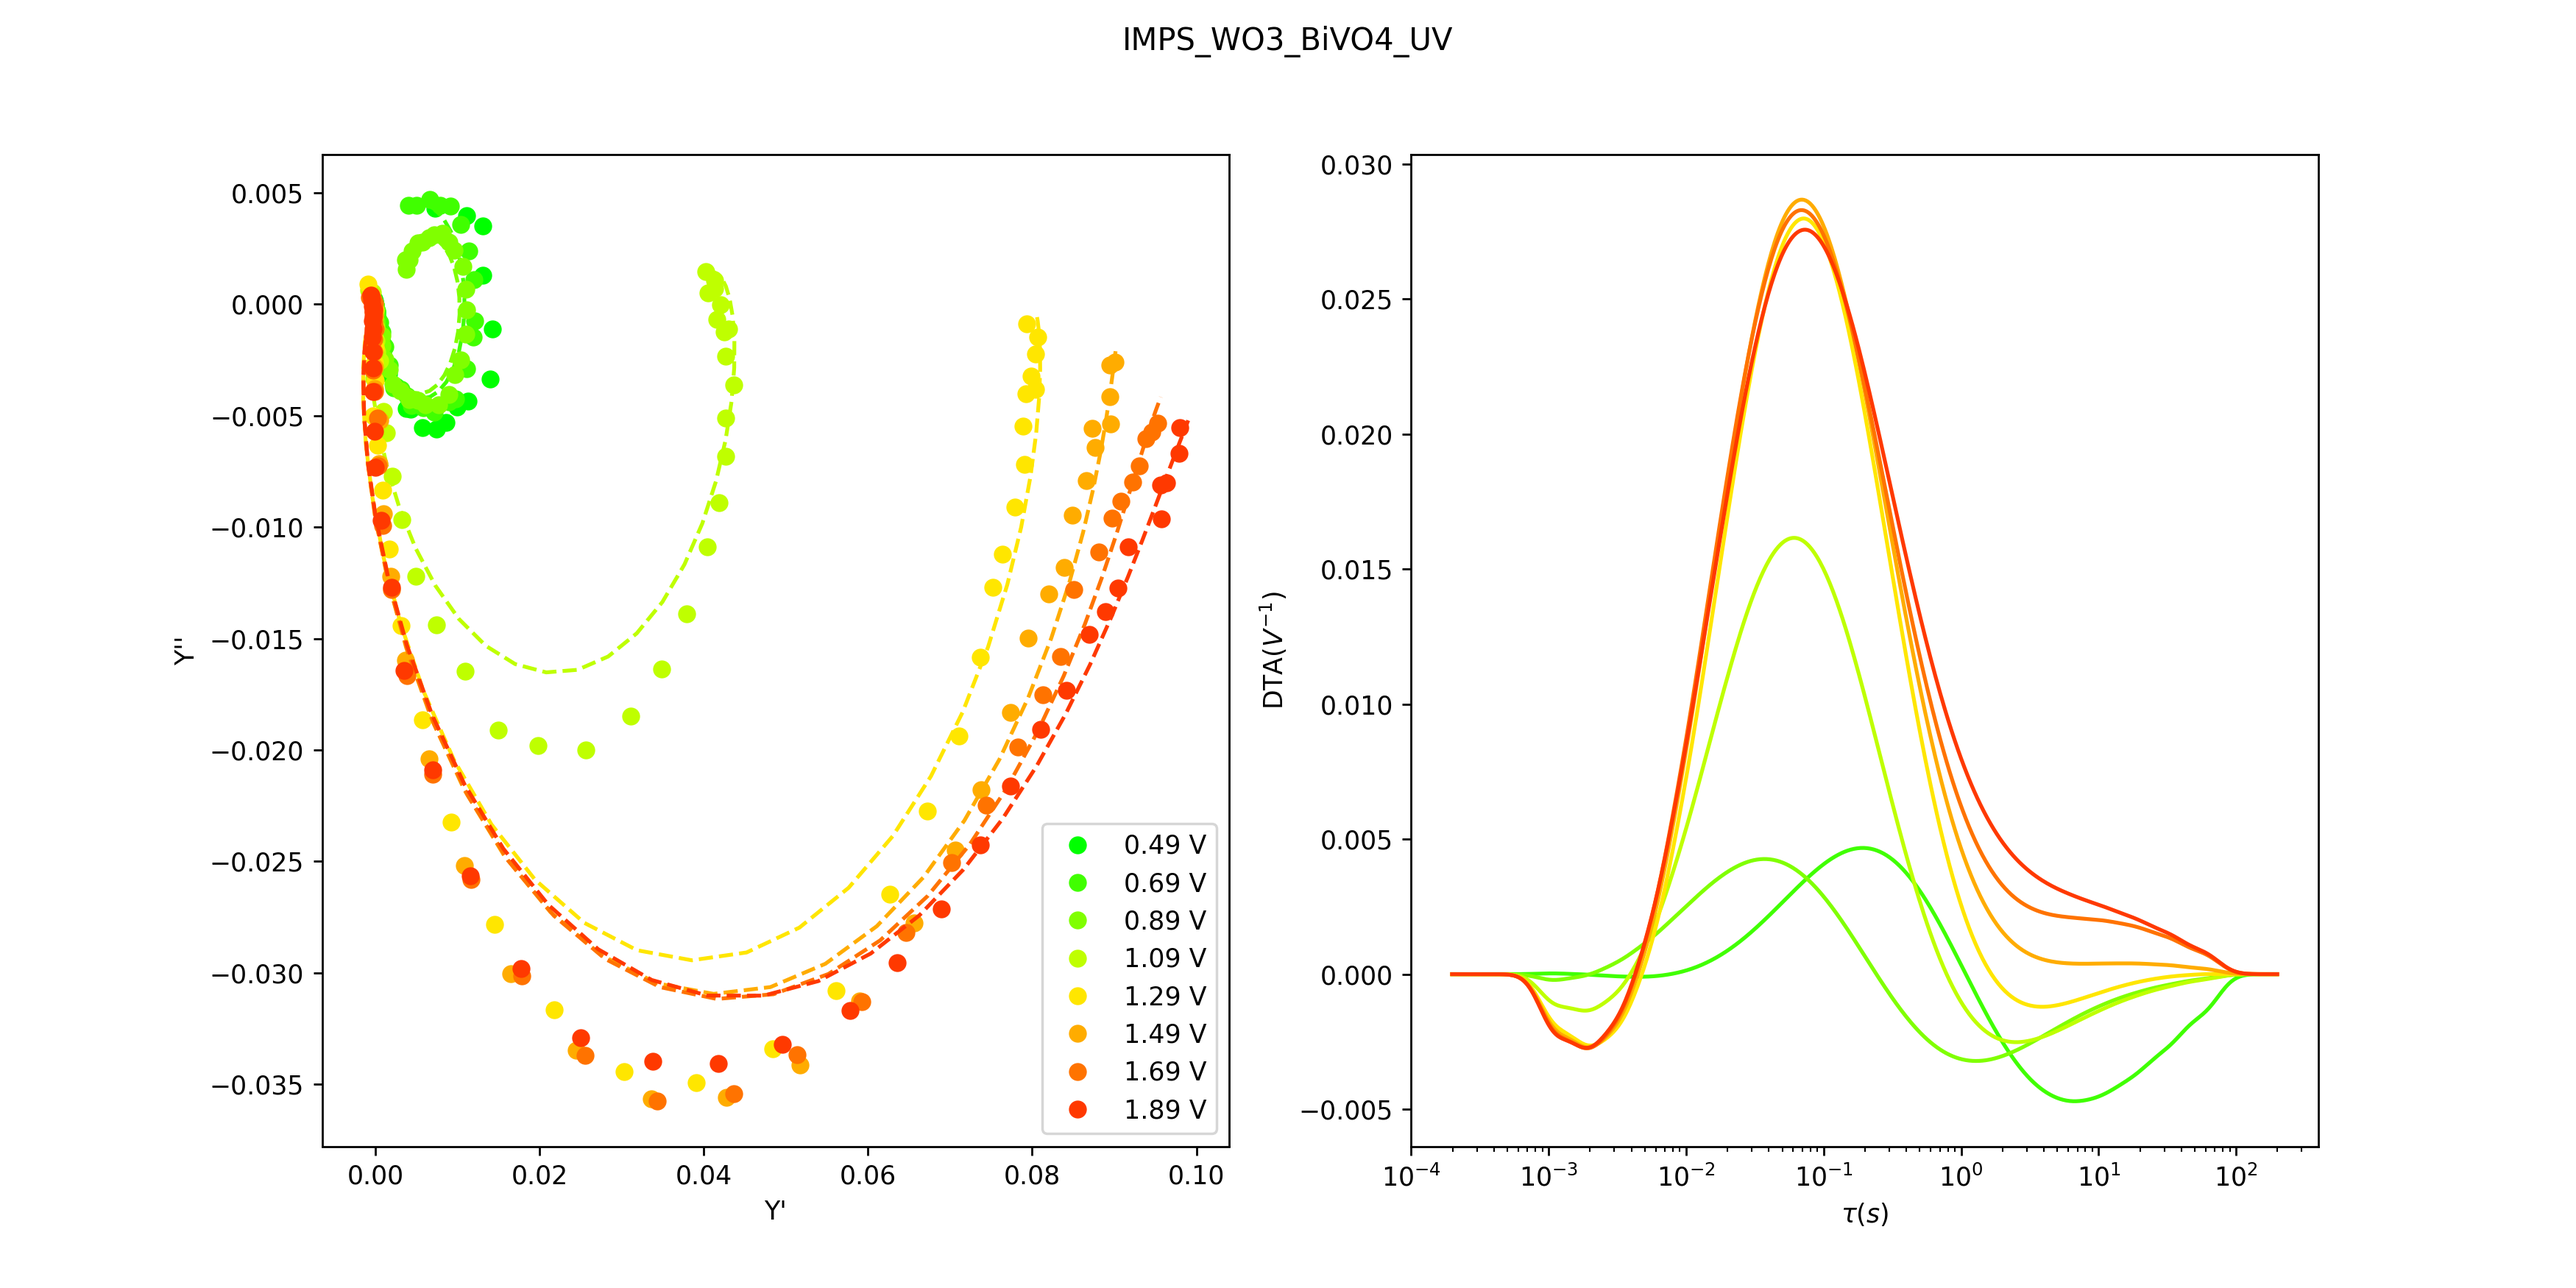
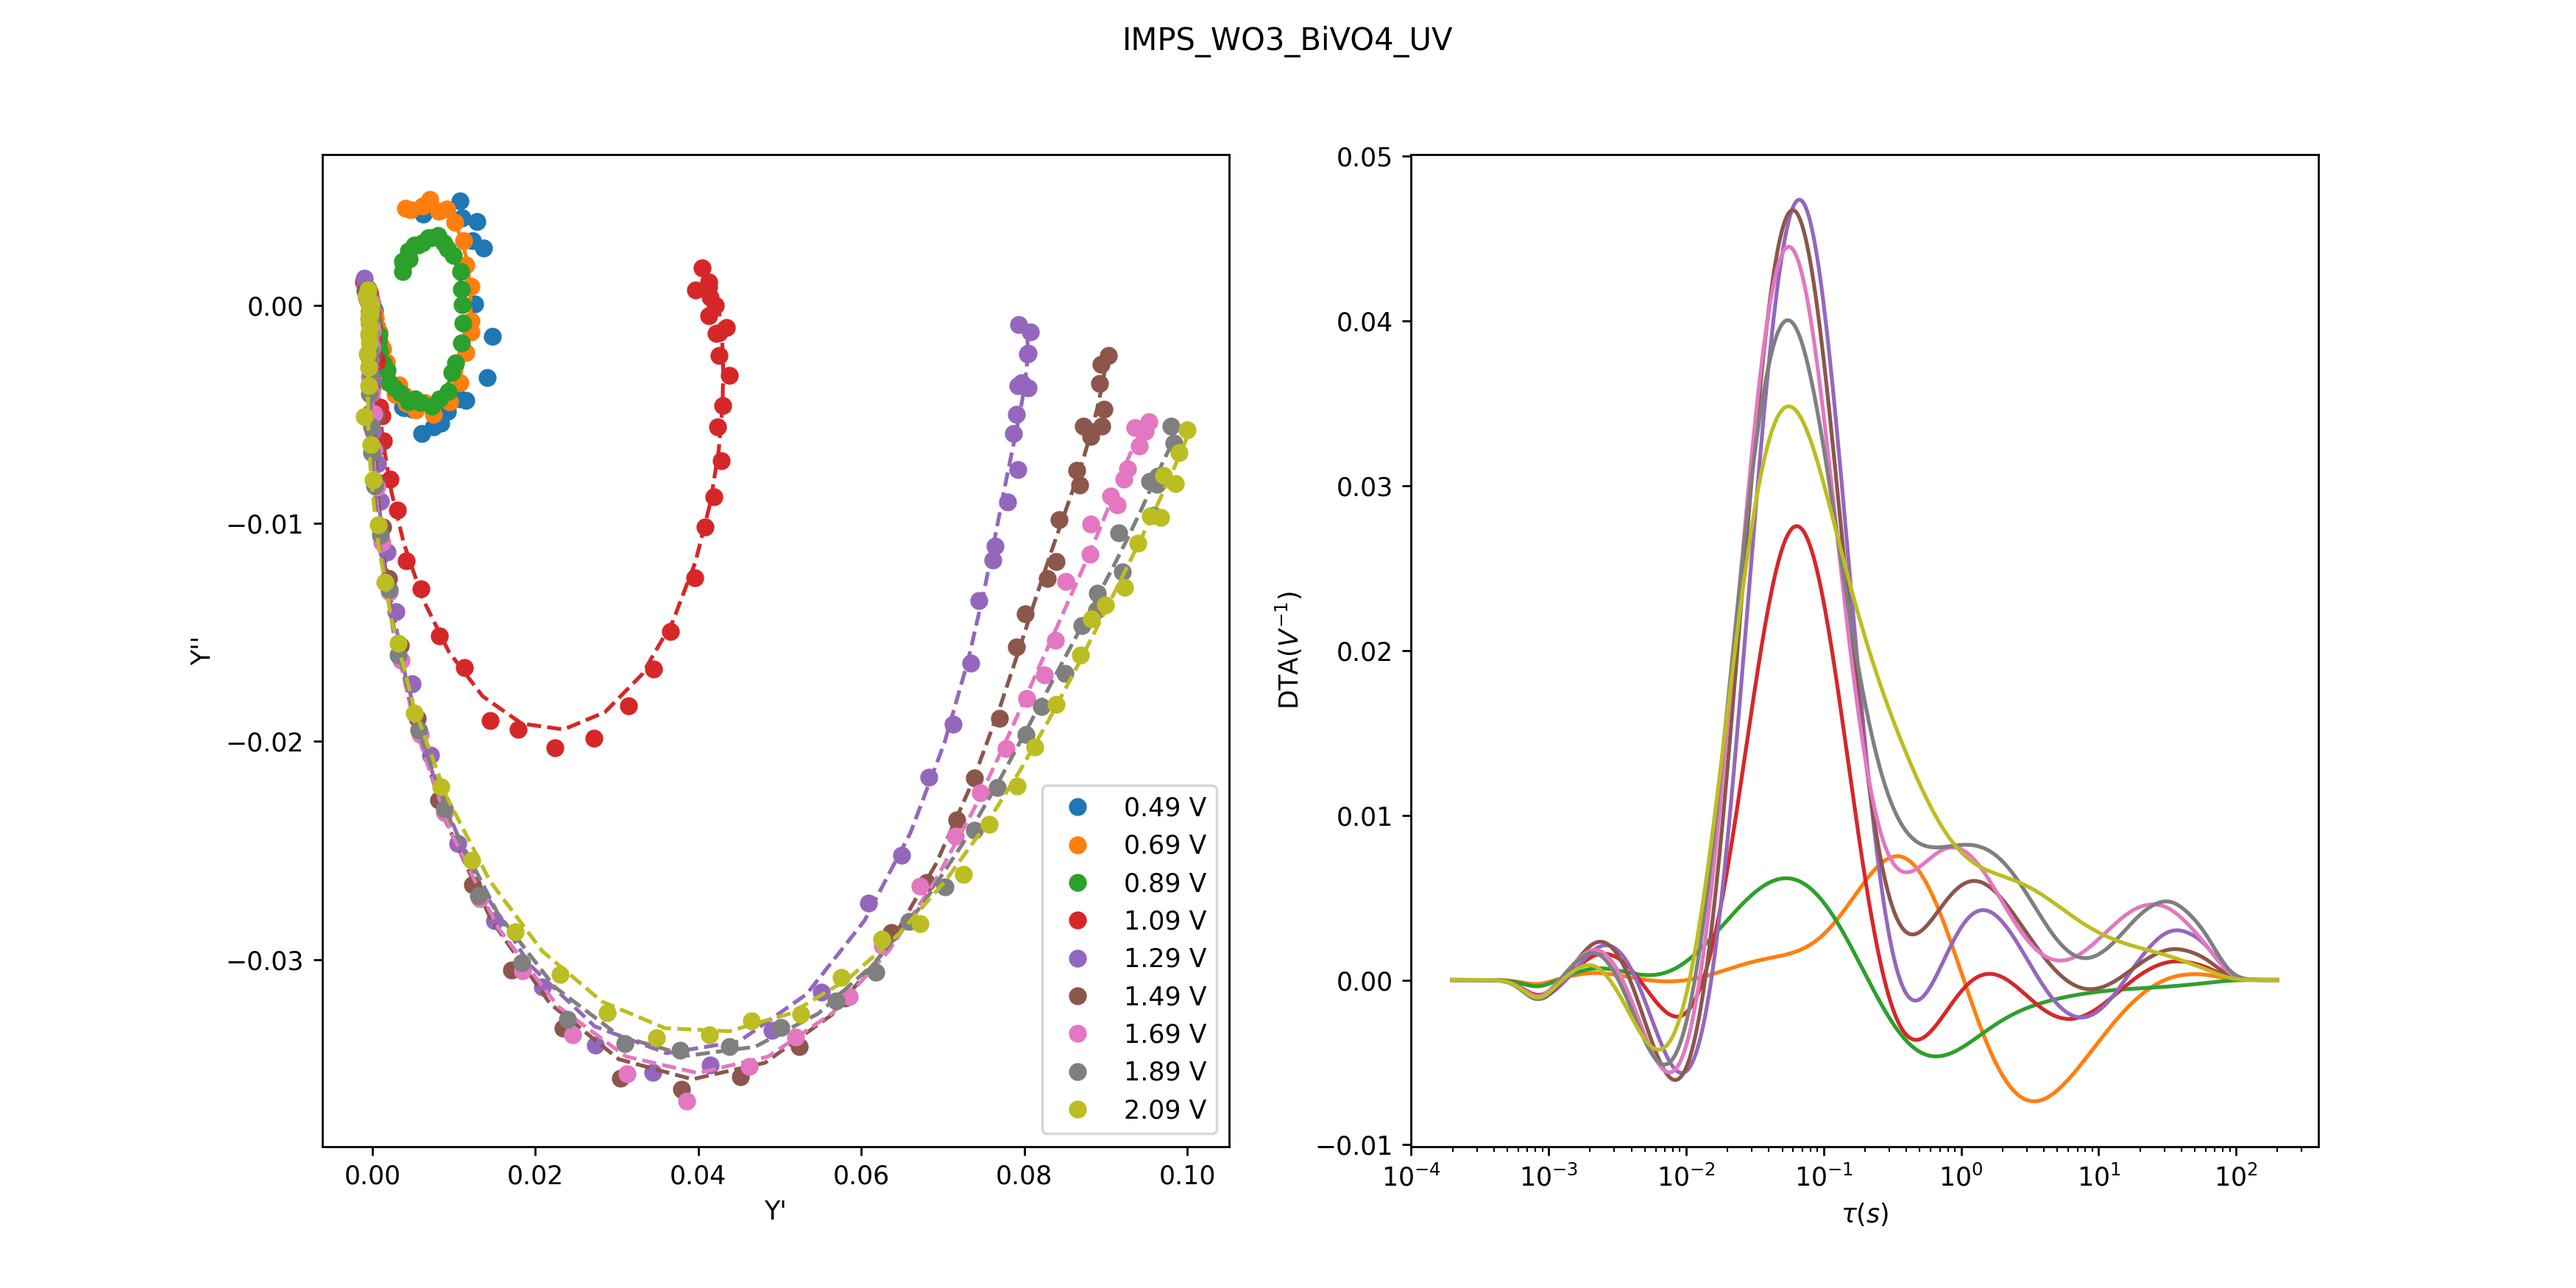
leave the horrible 'interpolation region' method, without scientific reason

diff --git a/DTAapp/templates/dta_webapp.html b/DTAapp/templates/dta_webapp.html
@@ -67,7 +67,7 @@
 		<div class= "row">  
 			<div class="form-group col-md-6"> 
 				<input type=submit class="btn btn-primary" name= "Compute" value=Compute>
-				<input type=submit class="btn btn-primary" name="Show interpolation" value=Show_Interpolation>
+				<!--					<input type=submit class="btn btn-primary" name="Show interpolation" value=Show_Interpolation>-->
                                 <!--</div>-->
 			{%if result != None %}
 			<!--<div class="form-group col-md-6"> -->

diff --git a/FastProgram/fastDTA.py b/FastProgram/fastDTA.py
@@ -14,10 +14,7 @@ from dta_main import IMPS
 import matplotlib.pylab as plt
 import numpy as np
 import matplotlib.colors as mcolors
-file_path = "C:\\Users\\pepermatt94\\OneDrive - Alma Mater Studiorum Università di Bologna\\Master_Thesis\\DRT\\IMPS_WO3BiVO4\\"
-file_path = file_path +"IMPS_WO3_BiVO4_blue_5mWamm.txt"
-alb = "C:\\Users\\pepermatt94\\Desktop\\datiNuovi.txt"
-
+import seaborn as sns
 
 class picked_data:
     def __init__(self, x,y, omega):
@@ -69,14 +66,17 @@ Voltages = Voltage_list(filename)
 if len(selected_voltages)==2:
     Voltages_list = Voltages[selected_voltages[0]:selected_voltages[1]]
 elif len(selected_voltages) == 1:
-    if selected_voltages == -1:
-        pass
+    if selected_voltages[0] == -1:
+        Voltages_list = Voltages
     else:
         Voltages_list = Voltages[selected_voltages[0]]
 
-color_list_until_green = palette((0,1,0), (1,1,0), int(len(Voltages)/2))
-color_list_until_yellow = palette((1,0.9,0), (1,0,0), int(len(Voltages)/2))
-color_list = color_list_until_green + color_list_until_yellow
+#color_list_until_green = palette((0,1,0), (1,1,0), int(len(Voltages)+1/2))
+#color_list_until_yellow = palette((1,0.9,0), (1,0,0), int(len(Voltages)+1/2))
+#color_list = color_list_until_green + color_list_until_yellow
+#color_list = palette((1,0,0), (1,1,0), int(len(Voltages)))
+color_list = sns.color_palette(None, len(Voltages))
+
 serie = np.arange(1,len(Voltages)*2+1, 1, dtype = int)
 serie = serie.reshape(len(Voltages),2)
 for step, dati in enumerate(serie):
@@ -96,7 +96,7 @@ for step, dati in enumerate(serie):
         #grid = fig.add_gridspec(1,2)
         #fit = fig.add_subplot(grid[0,0])
         #dta = fig.add_subplot(grid[0,1])
-        compute(imps,int(sys.argv[3]),  1,2, "Gaussian",  fit, dta, color_list[step], Voltages[step], 6e-3)
+        compute(imps,int(sys.argv[3]),  0.001,2, "Gaussian",  fit, dta, color_list[step], Voltages[step], 6e-3)
 fit.legend()
 fit.set_xlabel("Y'")
 fit.set_ylabel("Y''")
@@ -104,5 +104,5 @@ dta.set_xlabel("$\\tau (s)$")
 dta.set_ylabel("DTA"+"$(V^{-1})$")
 filename = filename.replace("cat", "CoFe-Bp")
 fig.suptitle(filename[:-4])
-#plt.savefig(filename[:-4] + ".png", dpi=250)
-plt.show()
+plt.savefig(filename[:-4] + ".png", dpi=250)
+plt.close()

diff --git a/DTAapp/compute.py b/DTAapp/compute.py
@@ -62,34 +62,18 @@ def compute(IMPS_object, lambda_val):
     fig.savefig(alls+path1, dpi = 250)
     return path1, path2
 
-def interpolate(IMPS_object, value_of_treshold_derivative, type_of_interpolation):
+def interpolate(IMPS_object):
     model_real = interp1d(IMPS_object.omega, IMPS_object.H_prime)
     model_double_prime = interp1d(IMPS_object.omega, IMPS_object.H_double_prime)
-
     omega_vec= np.logspace(np.log10(IMPS_object.omega[1]), np.log10(IMPS_object.omega[-1]), 40)
     real = model_real(omega_vec)
-    imag = model_double_prime(omega_vec)    
-    if type_of_interpolation == "1":
-        omega_vec1, dxdy = range_Selection(real, omega_vec, value_of_treshold_derivative)
-
-    elif type_of_interpolation == "2":
-        omega_vec, dxdy = range_Selection(real, omega_vec, value_of_treshold_derivative)
-    elif type_of_interpolation == "3":
-        omega_vec, dxdy = range_Selection(real, omega_vec, value_of_treshold_derivative)
-        #there will be a dedicated function
-    elif type_of_interpolation == "4":
-        omega_vec, dxdy = range_Selection(real, omega_vec, value_of_treshold_derivative)
-        omega_vec = IMPS_object.omega
-        real = IMPS_object.H_prime
-        imag = IMPS_object.H_double_prime
-    
-    real = model_real(omega_vec)
     imag = model_double_prime(omega_vec)
-    return real, imag, omega_vec, dxdy
+    return real, imag, omega_vec
 
 
-def compute_bokeh(IMPS_object, lambda_val, voltage, value_of_treshold_derivative, type_of_interpolation, output_dataframe1, output_dataframe2, degree):
-    real, imag,omega_vec, dxdy = interpolate(IMPS_object, value_of_treshold_derivative, type_of_interpolation) 
+def compute_bokeh(IMPS_object, lambda_val, voltage, output_dataframe1, output_dataframe2, degree):
+    
+    real, imag,omega_vec= interpolate(IMPS_object) 
     tau_vec = 2*np.pi/omega_vec
     mu= DTA.shape_factor_estimation(omega_vec, rbf_method = "Gaussian")
     real_matr= DTA.real_matrix(omega_vec, tau_vec, shape_factor = mu,rbf_method = "Gaussian" )

diff --git a/DTAapp/main.py b/DTAapp/main.py
@@ -14,15 +14,15 @@ import matplotlib.colors as mcolors
 import pandas as pd
 from django.conf import settings
 
-def main(file, value_of_treshold_derivative, rbf_method, lambda_val, degree_of_thickonov, interpolation_type, n_interpolation_point, col_selection):
+def main(file, rbf_method, lambda_val, degree_of_thickonov, n_interpolation_point, col_selection):
     
     Voltages = Voltage_list(file)
     selected_voltages = list(map(lambda x:int(x), col_selection.split(":")))
     if len(selected_voltages)==2:
         Voltages_list = Voltages[selected_voltages[0]:selected_voltages[1]]
     elif len(selected_voltages) == 1:
-        if selected_voltages == -1:
-           pass
+        if selected_voltages[0] == -1:
+           Voltages_list = Voltages 
         else:
             Voltages_list = [Voltages[selected_voltages[0]]]
     
@@ -37,7 +37,7 @@ def main(file, value_of_treshold_derivative, rbf_method, lambda_val, degree_of_t
         if Voltages[step] in Voltages_list:
             setting(dati[0],dati[1],file)
             imps = IMPS.from_file("trainingData.txt")
-            df_data, df_dta = compute_bokeh(imps, lambda_val, Voltages[step], value_of_treshold_derivative, interpolation_type, df_data, df_dta, degree_of_thickonov)
+            df_data, df_dta = compute_bokeh(imps, lambda_val, Voltages[step], df_data, df_dta, degree_of_thickonov)
     dati_interp_fit = pd.DataFrame(df_data)
     DTA_tau = pd.DataFrame(df_dta)
     dati_interp_fit.to_csv("interp_fit.csv", index = False)
@@ -51,8 +51,8 @@ def interpolate_only(file, value_of_treshold_derivative, interpolation_type, n_i
     if len(selected_voltages)==2:
         Voltages_list = Voltages[selected_voltages[0]:selected_voltages[1]]
     elif len(selected_voltages) == 1:
-        if selected_voltages == -1:
-           pass
+        if selected_voltages[0] == -1:
+           Voltage_list =Voltages
         else:
             Voltages_list = [Voltages[selected_voltages[0]]]
     

diff --git a/DTAapp/views.py b/DTAapp/views.py
@@ -22,20 +22,12 @@ def DTA_webAPP(request):
     if request.method == 'POST' and "Compute" in request.POST:
         if form.is_valid():
             data = pd.read_csv(request.FILES["ImportData"],sep = "\t",  skiprows = [1,2])
-            imps, dta = main(data,float(form['treshold_derivative'].value()), form['method_of_discretization'].value(),float(form['regularization_parameter'].value()), int(form['regularization_order'].value()), form['type_of_interpolation'].value() , int(form['number_of_point'].value()), form['col_selection'].value())
+            imps, dta = main(data, form['method_of_discretization'].value(),float(form['regularization_parameter'].value()), int(form['regularization_order'].value()), int(form['number_of_point'].value()), form['col_selection'].value())
             fig = myfig(imps, dta)
             script, div = components(fig.layout)
             imps.to_csv("result_imps.csv", index = False)
             dta.to_csv("result_dta.csv", index = False)
             result = "Ok, boy"
-    if request.method == 'POST' and "Show interpolation" in request.POST:
-        if form.is_valid():
-            data = pd.read_csv(request.FILES["ImportData"],sep = "\t",  skiprows = [1,2])
-            real, imag,omega_vec , dxdy= interpolate_only(data,float(form['treshold_derivative'].value()), form['type_of_interpolation'].value() , int(form['number_of_point'].value()), form['col_selection'].value())
-            imps = pd.DataFrame({"freq":omega_vec, "H'":real, "H''":imag, "H1'":real, "H1''":imag})
-            dta = pd.DataFrame({"freq":omega_vec, "real":real})
-            fig = myfig(imps,dta)
-            script, div = components(fig.layout)
     context =  {'form': form, 'script':script, 'div':div, "result":result}
     return HttpResponse(render(request, "dta_webapp.html", context))
 

diff --git a/FastProgram/compute.py b/FastProgram/compute.py
@@ -10,11 +10,11 @@ def compute(IMPS_object,interpolation_point, lambda_val, degree, discretization_
     model_real = interp1d(IMPS_object.omega, IMPS_object.H_prime)
     model_double_prime = interp1d(IMPS_object.omega, IMPS_object.H_double_prime)
 
-    omega_vec= np.logspace(np.log10(IMPS_object.omega[6]) , np.log10(IMPS_object.omega[-1]), 40)
+    omega_vec= np.logspace(np.log10(IMPS_object.omega[0]) , np.log10(IMPS_object.omega[-1]), 40)
     real = model_real(omega_vec)
-    omega_vec = range_Selection(real, omega_vec ,value_of_treshold_derivative)
+    #omega_vec = range_Selection(real, omega_vec ,value_of_treshold_derivative)
    
-    real = model_real(omega_vec)
+    #real = model_real(omega_vec)
     imag = model_double_prime(omega_vec)
     tau_vec = 2*np.pi/omega_vec
     mu= DTA.shape_factor_estimation(omega_vec, rbf_method = "Gaussian") 
@@ -46,11 +46,12 @@ def compute(IMPS_object,interpolation_point, lambda_val, degree, discretization_
     mu_z_im = A_im@gamma
     #x=np.arange(0,50,0.1)
    
-    fit.plot(real,imag, "o", color = color, label= label)
+    fit.plot(IMPS_object.H_prime,IMPS_object.H_double_prime, "o", color = color, label= label)
     fit.plot(mu_z_re, mu_z_im, "--", color = color)
     path1 =  os.path.join('DTAapp', 'img', 'fit.png')
     alls = "D:\\DTA\\DTAtools\\DTAtools\\static\\"
     path2 =  os.path.join('DTAapp', 'img', 'dta.png')
     dta.semilogx(out, DTA_vec, color = color, label = label)
+    #dta.semilogx( 1/IMPS_object.omega , -IMPS_object.H_double_prime, "o", color = color)
     #fig.savefig(alls+path1, dpi = 250)
     

diff --git a/DTAapp/forms.py b/DTAapp/forms.py
@@ -9,20 +9,12 @@ orders = (
         ("1","First order"),
         ("2", "Second order")
         )
-interpolation = (
-        ("1", "Simple interpolation"),
-        ("2", "Double Region interpolation"),
-        ("3", "Triple Region interpolation"),
-        ("4", "No interpolation")
-        )
 
 class DTAselection(forms.Form):
     ImportData = forms.FileField( label = "Import Data")
     method_of_discretization = forms.ChoiceField(choices = discretization_methods, label = "Select a discretization Method")
     regularization_parameter = forms.FloatField(label = "Regularization Parameter")#, widget=forms.TextInput(attrs={'type':'number'}), initial = 1)
     number_of_point = forms.IntegerField(label = "Number of interpolation Point",  widget=forms.TextInput(attrs={'type':'number'}))
-    treshold_derivative = forms.FloatField(label = "Treshold value of derivative at high frequency", initial = 0.005)
-    type_of_interpolation = forms.ChoiceField(choices = interpolation, label = "Select a the type of interpolation of point", initial = "2")
     regularization_order = forms.ChoiceField(label = "Tichonov regularization order", choices = orders, initial = "2")
     col_selection = forms.CharField(label = "Choice the columns to take into account in file in python style (for instance 1:3 for 1,2 column)")
         

diff --git a/FastProgram/FILE_setup.py b/FastProgram/FILE_setup.py
@@ -9,7 +9,7 @@ def setting(H_prime, H_double_prime, filename):
    
 def Voltage_list(filename) : 
     Voltages = pd.read_csv(filename, delimiter = "\t", skiprows = 2, nrows=1)
-    list_of_voltages = [2*i for i in range(int((len(Voltages.columns)-1)/2))]
+    list_of_voltages = [2*i for i in range(int((len(Voltages.columns)+1)/2))]
     list_of_voltages.pop(0)
     Voltages = Voltages.columns[list_of_voltages]
     return Voltages

diff --git a/DTAapp/FILE_setup.py b/DTAapp/FILE_setup.py
@@ -9,7 +9,7 @@ def setting(H_prime, H_double_prime, data):
    
 def Voltage_list(Voltages) : 
     #Voltages = pd.read_csv(filename, delimiter = "\t", skiprows = 2, nrows=1)
-    list_of_voltages = [2*i for i in range(int((len(Voltages.columns)-1)/2))]
+    list_of_voltages = [2*i for i in range(int((len(Voltages.columns)+1)/2))]
     
     list_of_voltages.pop(0)
     Voltages = Voltages.columns[list_of_voltages]
